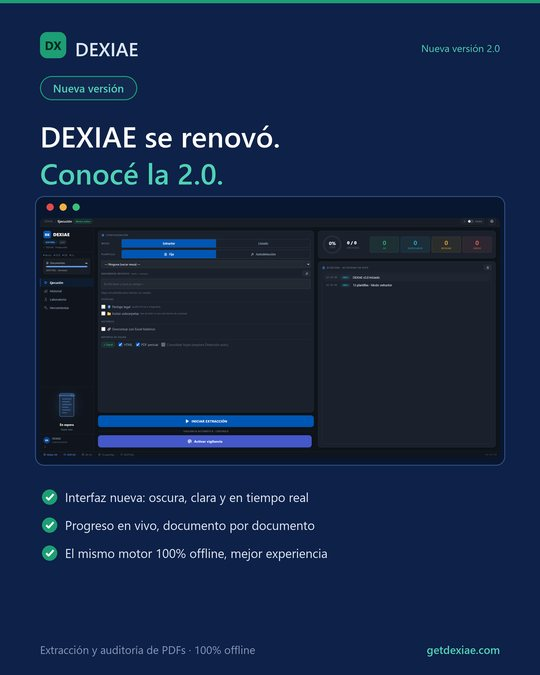
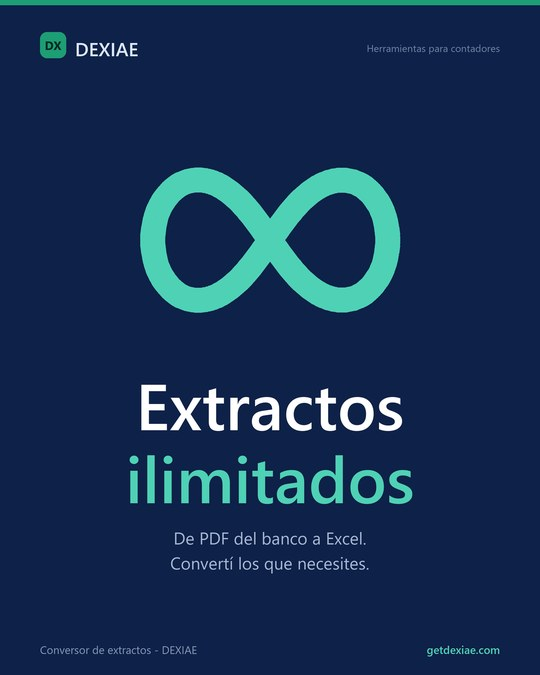
Add files via upload

diff --git a/eula.html b/eula.html
@@ -65,7 +65,7 @@ el Software de acuerdo con los terminos de la edicion adquirida:
       comercial (CORE, PRO o SENTINEL).
 
    b) DEXIAE CORE
-      Uso personal o comercial. Procesamiento de hasta 100 documentos por mes calendario.
+      Uso personal o comercial. Procesamiento de hasta 500 documentos por mes calendario.
       Limite de 3 plantillas de extraccion configurables.
       Incluye: extraccion de datos (Modo Extractor y Modo Listado), pre-vuelo Espejo y Ruteo,
       clasificacion automatica en carpetas de resultado, renombrado de archivos, deteccion de
@@ -76,7 +76,7 @@ el Software de acuerdo con los terminos de la edicion adquirida:
       inteligente, ni Modo Centinela.
 
    c) DEXIAE PRO
-      Uso comercial y profesional. Procesamiento de hasta 350 documentos por mes calendario.
+      Uso comercial y profesional. Procesamiento de hasta 2.500 documentos por mes calendario.
       Plantillas de extraccion ilimitadas.
       Incluye todas las funciones CORE mas: peritaje legal de firmas digitales, generacion de
       reportes en formato HTML y PDF, OCR por lote, deteccion automatica de plantillas,
@@ -90,7 +90,17 @@ el Software de acuerdo con los terminos de la edicion adquirida:
       volumenes de procesamiento, nivel de soporte, personalizaciones y precio se determinan
       mediante acuerdo contractual especifico con el licenciante, analizado caso por caso segun
       los requerimientos de cada organizacion.
-      Para solicitar una propuesta SENTINEL contacte: [email redacted]</pre>
+      Para solicitar una propuesta SENTINEL contacte: [email redacted]
+
+   NOTA SOBRE EL LIMITE MENSUAL (CORE y PRO): el cupo de documentos cuenta unicamente
+   la auditoria por plantilla (extraccion en lote, Modo Centinela y autodeteccion de
+   plantillas). Las herramientas PDF y el conversor de Extracto bancario a Excel son
+   ILIMITADOS en todas las ediciones y NO consumen el cupo mensual. El reconocimiento
+   optico de caracteres (OCR) usado dentro de la extraccion se contabiliza una sola vez,
+   junto con el documento. En las ediciones pagas (CORE y PRO) el limite admite un margen
+   de tolerancia razonable y nunca interrumpe un lote en curso: el Software solo pausa el
+   inicio de nuevos lotes al superar dicho margen, hasta el reinicio mensual del contador
+   o la actualizacion de edicion. En la edicion TRIAL el limite es un tope estricto.</pre>
 <h2>2. Restricciones</h2>
 <pre class="b">Usted NO puede:
    - Copiar, distribuir, sublicenciar, alquilar o prestar el Software.

diff --git a/index.html b/index.html
@@ -43,7 +43,7 @@
 {"@context":"https://schema.org","@type":"SoftwareApplication","name":"DEXIAE","alternateName":"Document Extraction & Intelligent Automation Engine","url":"https://getdexiae.com/","description":"Software 100% offline para auditar documentos PDF en lote. Extracción de datos a Excel, detección de duplicados, peritaje de firmas digitales y reportes de auditoría.","applicationCategory":"BusinessApplication","applicationSubCategory":"Document Management","operatingSystem":"Windows 10, Windows 11","offers":[{"@type":"Offer","name":"TRIAL","price":"0","priceCurrency":"USD","description":"14 días gratis · 100 documentos"},{"@type":"Offer","name":"CORE","price":"29","priceCurrency":"USD"},{"@type":"Offer","name":"PRO","price":"89","priceCurrency":"USD"}],"creator":{"@type":"Organization","name":"DEXIAE","url":"https://getdexiae.com/","email":"[email redacted]","address":{"@type":"PostalAddress","addressLocality":"Córdoba","addressCountry":"AR"},"sameAs":["https://instagram.com/get.dexiae"]},"featureList":["Extracción de datos PDF a Excel por plantilla","Detección automática de duplicados","Peritaje de firmas digitales","Centinela automático de carpetas","Reportes Excel, HTML y PDF de auditoría","OCR por lote","Organizar PDF: reordenar, rotar y quitar páginas","Extracto bancario a Excel","Comprimir PDF","9 herramientas PDF integradas"],"inLanguage":"es-AR","countryOfOrigin":"AR","softwareVersion":"2.0.0"}
 </script>
 <script type="application/ld+json">
-{"@context":"https://schema.org","@type":"FAQPage","mainEntity":[{"@type":"Question","name":"¿Cómo auditás documentos PDF sin subirlos a la nube?","acceptedAnswer":{"@type":"Answer","text":"Todo el procesamiento ocurre en tu propio equipo. No hay servidor externo recibiendo los documentos. Instalás la aplicación en Windows, elegís la carpeta y el procesamiento sucede localmente."}},{"@type":"Question","name":"¿Para qué profesional o área está pensado?","acceptedAnswer":{"@type":"Answer","text":"Para estudios contables, jurídicos y áreas administrativas del sector público y privado que procesan grandes volúmenes de PDFs."}},{"@type":"Question","name":"¿Funciona con cualquier PDF?","acceptedAnswer":{"@type":"Answer","text":"Sí. DEXIAE incluye motor OCR Tesseract en todas las ediciones, así que lee tanto PDFs con texto seleccionable como escaneados o campos en formato imagen, definiendo una zona en la plantilla. Para procesar PDFs escaneados completos en lote sin zonas, está el módulo OCR por Lote (PRO y SENTINEL)."}},{"@type":"Question","name":"¿Qué pasa si no tengo conexión a internet?","acceptedAnswer":{"@type":"Answer","text":"DEXIAE sigue funcionando normalmente. La verificación de licencia se cachea localmente por 24 horas. Solo necesitás internet una vez al día y solo para verificación, no para procesar documentos."}},{"@type":"Question","name":"¿Cómo activo la licencia después de pagar?","acceptedAnswer":{"@type":"Answer","text":"El instalador se descarga al instante apenas completás el formulario. El trial no requiere clave: instalá el .exe, abrí DEXIAE y los 14 días arrancan solos. Para planes pagos (CORE/PRO), la clave de activación llega por email apenas se acredita el pago en Mercado Pago. SENTINEL se activa tras coordinar la propuesta a medida."}},{"@type":"Question","name":"¿Puedo probar DEXIAE antes de pagar?","acceptedAnswer":{"@type":"Answer","text":"Sí. El plan TRIAL da 14 días completos con hasta 100 documentos, sin tarjeta de crédito. Incluye peritaje de firmas, Centinela, reportes HTML/PDF y herramientas PDF para evaluar el potencial total."}},{"@type":"Question","name":"¿Por qué Windows muestra una advertencia al instalar?","acceptedAnswer":{"@type":"Answer","text":"DEXIAE es software de desarrollador independiente que aún no acumuló firmas de reputación SmartScreen. No significa que sea malicioso. Hacé click en Más información y Ejecutar de todos modos. El instalador puede inspeccionarse con cualquier antivirus o VirusTotal."}},{"@type":"Question","name":"¿Cuánto tarda DEXIAE en procesar 100 PDFs?","acceptedAnswer":{"@type":"Answer","text":"Un lote típico de 100 PDFs con texto seleccionable se procesa en 2 a 4 minutos en una computadora estándar (Intel i5, 8GB RAM). Para PDFs escaneados que requieren OCR, el tiempo aumenta a 10-20 minutos por cada 100 documentos. Todo el procesamiento es local, sin depender de internet."}},{"@type":"Question","name":"¿DEXIAE valida firmas digitales en PDFs?","acceptedAnswer":{"@type":"Answer","text":"Sí. DEXIAE verifica la integridad criptográfica de las firmas: comprueba que el hash coincida con el firmado, lee datos del firmante (CN, fecha, algoritmo) y detecta modificaciones posteriores. Aclaración: DEXIAE no resuelve la cadena de confianza contra AC-Raíz ONTI ni consulta listas de revocación CRL/OCSP. Es una herramienta de auditoría masiva y screening, no sustituto del peritaje judicial formal."}},{"@type":"Question","name":"¿Cómo extraigo datos de facturas PDF a Excel automáticamente?","acceptedAnswer":{"@type":"Answer","text":"Configurás una plantilla de extracción una sola vez definiendo los campos (CUIT, razón social, monto, CAE, etc.). Después seleccionás la carpeta de facturas y DEXIAE procesa todo el lote generando un Excel estructurado. En PRO y SENTINEL, el Asistente de plantillas analiza un PDF y sugiere los campos automáticamente."}},{"@type":"Question","name":"¿En qué se diferencia DEXIAE de servicios cloud como Adobe o Smallpdf?","acceptedAnswer":{"@type":"Answer","text":"Tres diferencias clave: privacidad (los documentos nunca salen del equipo), costo predecible (licencia mensual o anual fija sin cuotas por página) y auditoría profunda (peritaje de firmas, detección de duplicados, reportes periciales firmados con score de integridad y hash SHA-256). DEXIAE está pensado para contadores, abogados y áreas administrativas que necesitan trazabilidad legal."}},{"@type":"Question","name":"¿Qué pasa con mis datos si cancelo la suscripción?","acceptedAnswer":{"@type":"Answer","text":"Tus datos siempre estuvieron en tu equipo. DEXIAE no almacena nada en la nube: plantillas, Excel, reportes y logs viven en carpetas locales. Si cancelás la suscripción, el software deja de procesar nuevos documentos, pero todos los archivos que ya generaste permanecen accesibles. Podés seguir consultando tus reportes Excel, HTML y PDF sin DEXIAE instalado."}}]}
+{"@context":"https://schema.org","@type":"FAQPage","mainEntity":[{"@type":"Question","name":"¿Cómo auditás documentos PDF sin subirlos a la nube?","acceptedAnswer":{"@type":"Answer","text":"Todo el procesamiento ocurre en tu propio equipo. No hay servidor externo recibiendo los documentos. Instalás la aplicación en Windows, elegís la carpeta y el procesamiento sucede localmente."}},{"@type":"Question","name":"¿Para qué profesional o área está pensado?","acceptedAnswer":{"@type":"Answer","text":"Para estudios contables, jurídicos y áreas administrativas del sector público y privado que procesan grandes volúmenes de PDFs."}},{"@type":"Question","name":"¿Funciona con cualquier PDF?","acceptedAnswer":{"@type":"Answer","text":"Sí. DEXIAE incluye motor OCR Tesseract en todas las ediciones, así que lee tanto PDFs con texto seleccionable como escaneados o campos en formato imagen, definiendo una zona en la plantilla. Para procesar PDFs escaneados completos en lote sin zonas, está el módulo OCR por Lote (PRO y SENTINEL)."}},{"@type":"Question","name":"¿Qué pasa si no tengo conexión a internet?","acceptedAnswer":{"@type":"Answer","text":"DEXIAE sigue funcionando normalmente. La verificación de licencia se cachea localmente por 24 horas. Solo necesitás internet una vez al día y solo para verificación, no para procesar documentos."}},{"@type":"Question","name":"¿Cómo activo la licencia después de pagar?","acceptedAnswer":{"@type":"Answer","text":"El instalador se descarga al instante apenas completás el formulario. El trial no requiere clave: instalá el .exe, abrí DEXIAE y los 14 días arrancan solos. Para planes pagos (CORE/PRO), la clave de activación llega por email apenas se acredita el pago en Mercado Pago. SENTINEL se activa tras coordinar la propuesta a medida."}},{"@type":"Question","name":"¿Puedo probar DEXIAE antes de pagar?","acceptedAnswer":{"@type":"Answer","text":"Sí. El plan TRIAL da 14 días completos con hasta 100 documentos, sin tarjeta de crédito. Incluye peritaje de firmas, Centinela, reportes HTML/PDF y herramientas PDF para evaluar el potencial total."}},{"@type":"Question","name":"¿Qué cuenta para mi límite mensual?","acceptedAnswer":{"@type":"Answer","text":"El cupo mensual (500 en CORE, 2.500 en PRO) cuenta solo la auditoría por plantilla: extracción en lote, Modo Centinela y autodetección de plantillas. Las 9 herramientas PDF y el conversor de Extracto bancario a Excel son ilimitados y no consumen el cupo. En los planes pagos el límite tiene un margen de tolerancia y nunca corta un lote empezado; solo pausa el inicio de lotes nuevos al superar el margen, hasta el reinicio mensual del contador."}},{"@type":"Question","name":"¿Por qué Windows muestra una advertencia al instalar?","acceptedAnswer":{"@type":"Answer","text":"DEXIAE es software de desarrollador independiente que aún no acumuló firmas de reputación SmartScreen. No significa que sea malicioso. Hacé click en Más información y Ejecutar de todos modos. El instalador puede inspeccionarse con cualquier antivirus o VirusTotal."}},{"@type":"Question","name":"¿Cuánto tarda DEXIAE en procesar 100 PDFs?","acceptedAnswer":{"@type":"Answer","text":"Un lote típico de 100 PDFs con texto seleccionable se procesa en 2 a 4 minutos en una computadora estándar (Intel i5, 8GB RAM). Para PDFs escaneados que requieren OCR, el tiempo aumenta a 10-20 minutos por cada 100 documentos. Todo el procesamiento es local, sin depender de internet."}},{"@type":"Question","name":"¿DEXIAE valida firmas digitales en PDFs?","acceptedAnswer":{"@type":"Answer","text":"Sí. DEXIAE verifica la integridad criptográfica de las firmas: comprueba que el hash coincida con el firmado, lee datos del firmante (CN, fecha, algoritmo) y detecta modificaciones posteriores. Aclaración: DEXIAE no resuelve la cadena de confianza contra AC-Raíz ONTI ni consulta listas de revocación CRL/OCSP. Es una herramienta de auditoría masiva y screening, no sustituto del peritaje judicial formal."}},{"@type":"Question","name":"¿Cómo extraigo datos de facturas PDF a Excel automáticamente?","acceptedAnswer":{"@type":"Answer","text":"Configurás una plantilla de extracción una sola vez definiendo los campos (CUIT, razón social, monto, CAE, etc.). Después seleccionás la carpeta de facturas y DEXIAE procesa todo el lote generando un Excel estructurado. En PRO y SENTINEL, el Asistente de plantillas analiza un PDF y sugiere los campos automáticamente."}},{"@type":"Question","name":"¿En qué se diferencia DEXIAE de servicios cloud como Adobe o Smallpdf?","acceptedAnswer":{"@type":"Answer","text":"Tres diferencias clave: privacidad (los documentos nunca salen del equipo), costo predecible (licencia mensual o anual fija sin cuotas por página) y auditoría profunda (peritaje de firmas, detección de duplicados, reportes periciales firmados con score de integridad y hash SHA-256). DEXIAE está pensado para contadores, abogados y áreas administrativas que necesitan trazabilidad legal."}},{"@type":"Question","name":"¿Qué pasa con mis datos si cancelo la suscripción?","acceptedAnswer":{"@type":"Answer","text":"Tus datos siempre estuvieron en tu equipo. DEXIAE no almacena nada en la nube: plantillas, Excel, reportes y logs viven en carpetas locales. Si cancelás la suscripción, el software deja de procesar nuevos documentos, pero todos los archivos que ya generaste permanecen accesibles. Podés seguir consultando tus reportes Excel, HTML y PDF sin DEXIAE instalado."}}]}
 </script>
 
 <link rel="preconnect" href="https://fonts.googleapis.com">
@@ -219,6 +219,9 @@ nav{position:sticky;top:0;z-index:60;background:rgba(11,17,32,.9);backdrop-filte
 .price-feats li::before{content:"✓";color:var(--ok-deep);font-weight:700;flex-shrink:0}
 .price-feats li.no{color:var(--ink3)}
 .price-feats li.no::before{content:"—";color:var(--ink3)}
+.price-feats li.soon{color:var(--ink2)}
+.price-feats li.soon::before{content:"◷";color:var(--ac);font-weight:700}
+.soon-b{margin-left:6px;font-size:9px;font-weight:700;letter-spacing:.05em;text-transform:uppercase;background:var(--ac-bg);color:var(--ac-deep);border:1px solid rgba(46,109,219,.25);padding:2px 7px;border-radius:100px;white-space:nowrap}
 .price-hl{background:var(--paper);border:1px solid var(--pline);border-radius:10px;padding:12px 14px;margin-bottom:14px}
 .price-hl-l{font-size:10.5px;font-weight:700;letter-spacing:.07em;text-transform:uppercase;color:var(--ac-deep);margin-bottom:6px}
 .price-hl ul{list-style:none;display:flex;flex-direction:column;gap:5px}
@@ -538,11 +541,11 @@ nav{position:sticky;top:0;z-index:60;background:rgba(11,17,32,.9);backdrop-filte
    <div class="price-ars"><span class="p-m">≈ AR$ 44.500 / mes</span><span class="p-a" style="display:none">≈ AR$ 425.000 / año</span></div>
    <div class="price-div"></div>
    <ul class="price-feats">
-    <li>100 docs/mes · 3 plantillas</li>
+    <li>500 docs/mes · 3 plantillas</li>
+    <li><b>Extracto bancario → Excel · ilimitado</b></li>
     <li>Extracción a Excel por plantilla manual</li>
     <li>Detección de duplicados</li>
-    <li>Unir, dividir y extraer páginas</li>
-    <li>PDF a Word · imágenes a PDF</li>
+    <li>Unir, dividir, PDF a Word, imágenes a PDF</li>
     <li class="no">Sin peritaje ni Centinela</li>
    </ul>
    <button onclick="openLead('CORE')" class="price-cta">Activar CORE</button>
@@ -562,7 +565,7 @@ nav{position:sticky;top:0;z-index:60;background:rgba(11,17,32,.9);backdrop-filte
     </ul>
    </div>
    <ul class="price-feats">
-    <li>350 docs/mes · plantillas ilimitadas</li>
+    <li>2.500 docs/mes · plantillas ilimitadas</li>
     <li>Todo lo de CORE</li>
     <li>Peritaje de firmas digitales</li>
     <li>Validación de datos (reglas de negocio)</li>
@@ -570,6 +573,7 @@ nav{position:sticky;top:0;z-index:60;background:rgba(11,17,32,.9);backdrop-filte
     <li>Reportes HTML y PDF auditoría</li>
     <li>Score de riesgo · gaps de numeración</li>
     <li>Centinela automático</li>
+    <li class="soon">Imputación de extractos y export de asientos <span class="soon-b">Pronto</span></li>
    </ul>
    <button onclick="openLead('PRO')" class="price-cta">Quiero PRO</button>
   </div>
@@ -611,6 +615,8 @@ nav{position:sticky;top:0;z-index:60;background:rgba(11,17,32,.9);backdrop-filte
    <div class="faq-a"><p>El instalador se descarga al instante apenas completás el formulario. <strong>El trial no requiere clave</strong>: instalá el .exe, abrí DEXIAE y los 14 días arrancan solos. Para planes pagos (CORE/PRO), la clave de activación llega por email apenas se acredita el pago en Mercado Pago. SENTINEL se activa tras coordinar la propuesta a medida.</p></div></div>
   <div class="faq-item"><button class="faq-q"><span>¿Puedo probar DEXIAE antes de pagar?</span><span class="ic">+</span></button>
    <div class="faq-a"><p><strong>Sí, siempre.</strong> El plan TRIAL te da 14 días completos de uso con hasta 100 documentos — sin tarjeta de crédito ni datos de pago. Tenés acceso a <strong>todas las funciones</strong> incluyendo peritaje de firmas, Centinela automático, reportes HTML/PDF y herramientas PDF. Configurás plantillas reales, procesás lotes de tus propios documentos y veés los reportes completos para evaluar el potencial total de DEXIAE.</p></div></div>
+  <div class="faq-item"><button class="faq-q"><span>¿Qué cuenta para mi límite mensual?</span><span class="ic">+</span></button>
+   <div class="faq-a"><p>El cupo mensual (<strong>500 en CORE, 2.500 en PRO</strong>) cuenta <strong>solo la auditoría por plantilla</strong>: extracción en lote, Modo Centinela y autodetección de plantillas. Las <strong>9 herramientas PDF</strong> y el conversor de <strong>Extracto bancario a Excel son ilimitados</strong> y no consumen tu cupo. Además, en los planes pagos el límite tiene un margen de tolerancia y <strong>nunca corta un lote empezado</strong> — solo pausa el inicio de lotes nuevos cuando superás el margen, hasta que el contador se reinicia el 1 de cada mes.</p></div></div>
   <div class="faq-item"><button class="faq-q"><span>¿Por qué Windows muestra una advertencia al instalar?</span><span class="ic">+</span></button>
    <div class="faq-a"><p>DEXIAE es un software de desarrollador independiente que aún no acumuló las firmas de reputación que requiere Microsoft SmartScreen. La advertencia <em>"Windows protegió tu equipo"</em> es estándar para software nuevo de empresas chicas — <strong>no significa que sea malicioso</strong>. Para continuar la instalación: hacé click en <strong>"Más información"</strong> y luego en <strong>"Ejecutar de todos modos"</strong>. El instalador puede ser inspeccionado con cualquier antivirus o subido a <a href="https://www.virustotal.com/" target="_blank" rel="noopener noreferrer">VirusTotal</a> si querés validación independiente.</p></div></div>
   <div class="faq-item"><button class="faq-q"><span>¿Cuánto tarda DEXIAE en procesar 100 PDFs?</span><span class="ic">+</span></button>